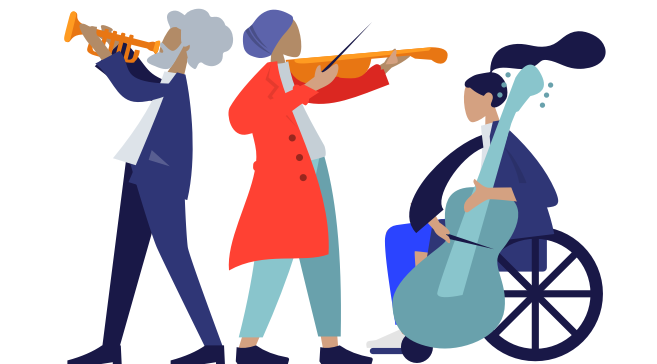
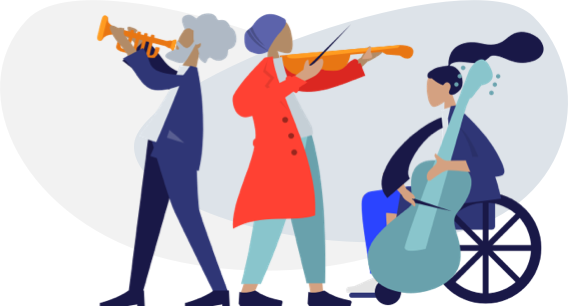
feat(landing-page): add testimonials

diff --git a/src/screens/Home/Home.jsx b/src/screens/Home/Home.jsx
@@ -164,6 +164,63 @@ export default function Home() {
             </Grid>
           </section>
         </Grid>
+        <Grid xs={12} item>
+          <section className={classes.testimonialsContainer}>
+            <Typography variant="h1">
+              {t('supported_by')}
+            </Typography>
+            <div className={classes.testimonialsBlock}>
+              <div className={classes.testimonial}>
+                <div className={classes.testimonialHeader}>
+                  <img src={images.avatar} alt="" />
+                  <div>
+                    <Typography variant="h2">
+                      Marcel van Tilburg
+                    </Typography>
+                    <Typography>
+                      Koninklijk Concertgebouworkest
+                    </Typography>
+                  </div>
+                </div>
+                <Typography>
+                  “The quick brown fox jumps over the lazy dog. The quick brown fox jumps over the lazy dog. The quick brown fox jumps over the lazy dog.”
+                </Typography>
+              </div>
+              <div className={classes.testimonial}>
+                <div className={classes.testimonialHeader}>
+                  <img src={images.avatar} alt="" />
+                  <div>
+                    <Typography variant="h2">
+                      Marcel van Tilburg
+                    </Typography>
+                    <Typography>
+                      Koninklijk Concertgebouworkest
+                    </Typography>
+                  </div>
+                </div>
+                <Typography>
+                  “The quick brown fox jumps over the lazy dog. The quick brown fox jumps over the lazy dog. The quick brown fox jumps over the lazy dog.”
+                </Typography>
+              </div>
+              <div className={classes.testimonial}>
+                <div className={classes.testimonialHeader}>
+                  <img src={images.avatar} alt="" />
+                  <div>
+                    <Typography variant="h2">
+                      Marcel van Tilburg
+                    </Typography>
+                    <Typography>
+                      Koninklijk Concertgebouworkest
+                    </Typography>
+                  </div>
+                </div>
+                <Typography>
+                  “The quick brown fox jumps over the lazy dog. The quick brown fox jumps over the lazy dog. The quick brown fox jumps over the lazy dog.”
+                </Typography>
+              </div>
+            </div>
+          </section>
+        </Grid>
       </Grid>
       <footer />
     </div>

diff --git a/src/screens/Home/Home.styles.js b/src/screens/Home/Home.styles.js
@@ -1,4 +1,5 @@
 import { createStyles } from '@material-ui/styles';
+import images from '../../theme/images';
 
 export default ({ spacing, typography, palette, shape }) => createStyles({
   relative: {
@@ -107,6 +108,57 @@ export default ({ spacing, typography, palette, shape }) => createStyles({
     },
     '& $stepsTextContainer': {
       justifyContent: 'flex-start',
+    },
+  },
+  testimonialsContainer: {
+    display       : 'flex',
+    alignItems    : 'center',
+    justifyContent: 'center',
+    flexDirection : 'column',
+    height        : 514,
+    background    : `url(${images.supportedBy})`,
+    backgroundSize: 'cover',
+    '& h1'        : {
+      color: palette.common.white,
+    },
+  },
+  testimonialsBlock: {
+    display       : 'flex',
+    alignItems    : 'center',
+    justifyContent: 'center',
+    flexWrap      : 'wrap',
+  },
+  testimonial: {
+    marginTop                      : 35,
+    marginRight                    : spacing(2),
+    boxSizing                      : 'border-box',
+    padding                        : spacing(3),
+    height                         : 184,
+    width                          : 393,
+    borderRadius                   : shape.borderRadius,
+    backgroundColor                : palette.common.white,
+    boxShadow                      : '0 4px 5px 0 rgba(0,0,0,0.14), 0 1px 10px 0 rgba(0,0,0,0.12), 0 2px 4px -1px rgba(0,0,0,0.2)',
+    '&:not($testimonialHeader) > p': {
+      fontSize: typography.pxToRem(13.82),
+    },
+    '&:last-child': {
+      marginRight: 0,
+    },
+  },
+  testimonialHeader: {
+    display       : 'flex',
+    alignItems    : 'center',
+    justifyContent: 'flex-start',
+    marginBottom  : spacing(3),
+    '& img'       : {
+      height      : 52,
+      width       : 52,
+      borderRadius: 60,
+      marginRight : spacing(2),
+    },
+    '& h2': {
+      margin  : 0,
+      fontSize: typography.pxToRem(21),
     },
   },
 });

diff --git a/src/theme/images.js b/src/theme/images.js
@@ -1,4 +1,5 @@
 export default {
+  avatar                  : require('./images/avatar.png'),
   algorithmsWillDistribute: require('./images/algorithms_will_distribute.png'),
   everyCollaborator       : require('./images/every_collaborator.png'),
   logo                    : require('./images/logo.png'),
@@ -6,5 +7,6 @@ export default {
   collaborateHero         : require('./images/collaborate_hero.png'),
   greatScores             : require('./images/great_scores.png'),
   pickAScore              : require('./images/pick_a_score.png'),
+  supportedBy             : require('./images/supported_by.png'),
   unlockClassics          : require('./images/unlock_classics.png'),
 };
